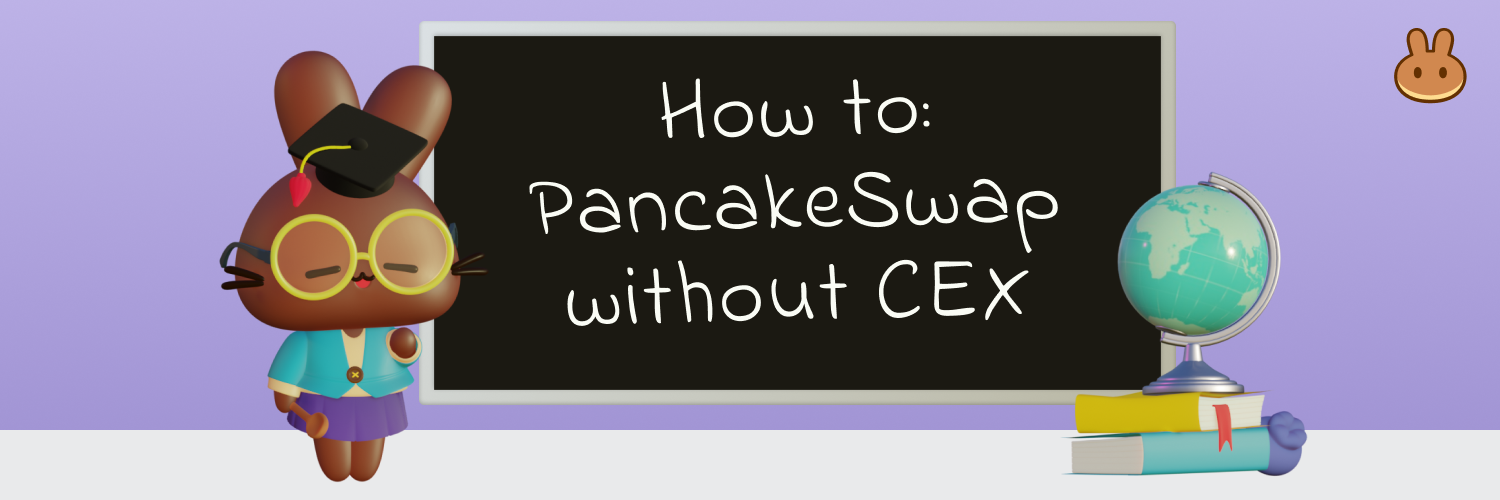
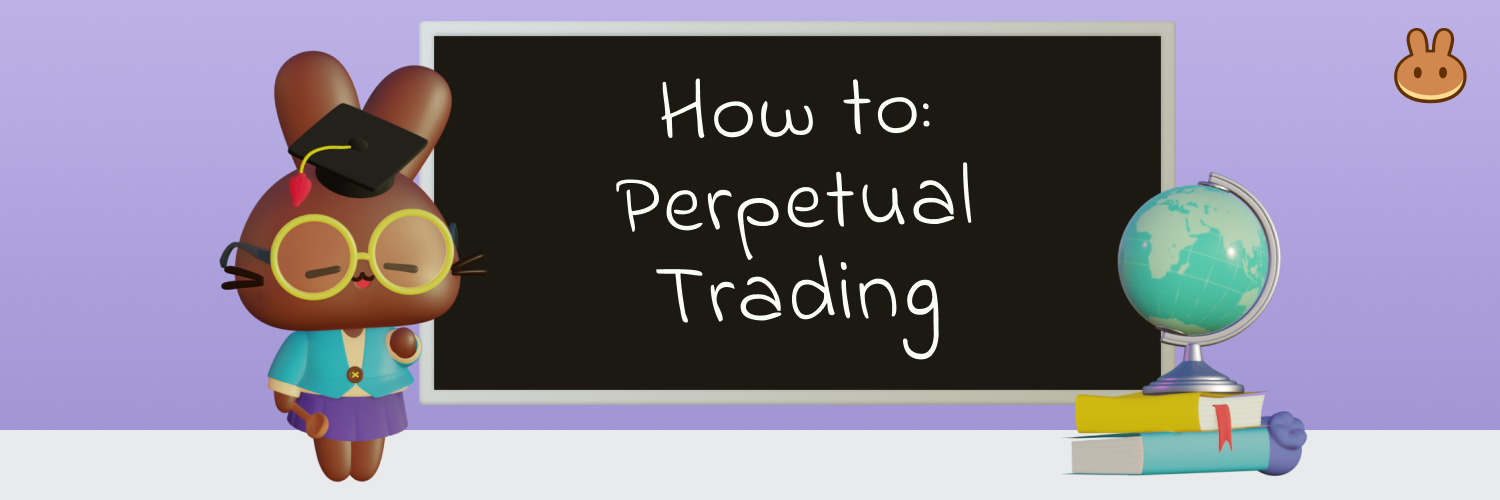
GitBook: [#570] No subject

Changed region(s): [[0.3373, 0.33, 0.7053, 0.51], [0.368, 0.51, 0.7053, 0.72]]

diff --git a/products/pancakeswap-exchange/perpetual-trading/glossary.md b/products/pancakeswap-exchange/perpetual-trading/glossary.md
@@ -1,0 +1,87 @@
+# Glossary
+
+**Here you will find defined all the terms inherent in futures trading**
+
+### **Perpetual Trading**
+
+&#x20;Perpetuals, perpetual swaps, or perps are a special type of futures contract without an expiration date.
+
+
+
+### **Leverage**
+
+Leverage is a trading mechanism. Traders can use it to increase their exposure to the market by allowing them to pay less than the full amount of the investment. In simple words, you borrow money to leverage your investment.
+
+![](https://lh5.googleusercontent.com/S4CpgIaapprJpet3GI9UvkGA2Vncl6ywSA8848SLOG5M73v2ILcSunlPMOxpWg9UJmKui4Vb6BDQcUugWP1aYMAVl9\_QPioIxT9sFRuY-EEtuSXgCn\_D8Muwqh60PFr3EcEu3kkH)
+
+### **Margin**
+
+is the guarantee you put for your leveraged positions. It has two Modes to use it:
+
+* Cross Margin Mode: All cross positions under the same margin asset share the same asset cross margin balance. In the event of liquidation, your assets full margin balance along with any remaining open positions under the asset may be forfeited.
+* Isolated Margin Mode: Manage your risk on individual positions by restricting the amount of margin allocated to each. If the margin ratio of a position reached 100%, the position will be liquidated. Margin can be added or removed to positions using this mode.
+
+![](https://lh3.googleusercontent.com/zVEa2C\_uhxdfB83PnT0jPQ3lbs5hJ8IY4cOe5KgxOiypTxV0CC1mXHouC9EhR2ukRmnMIXzk71JkEwPLmXAeK0RuP0xDsqX7c6P-X-7bPdqN3Xrfzxhub2wV55\_ZKRNTy8WoCpUs)
+
+**Margin Ratio**: Margin Ratio = Maintenance Margin / Margin Balance. Your positions will be liquidated once Margin Ratio reaches 100%.
+
+**Maintenance Ratio**: The minimum amount of margin balance required to keep your open positions.
+
+**Margin Balance** = Wallet Balance + Unrealized PNL. Your positions will be liquidated once Margin Balance <= Maintenance Margin.
+
+![](https://lh6.googleusercontent.com/BGaNOmsOkew\_Cf9f6zcP2bW4Die0-uZnoui7QVYY24oDFtQkgIB5Vq1dLo7XgkA3LKyisoK-5Cs0uSN7fl19aa9nvDDAzWCVdgnJ3xNGHkDchaJMQf1G0gvXmDDvR2DvAih1D7tS)
+
+### Assets:
+
+**Deposit**: Deposit your funds into your futures account
+
+**Withdraw**: Withdraw your funds from your futures account to your wallet
+
+**Balance**: Wallet Balance = Total Net Transfer + Total Realized Profit + Total Net Funding Fee - Total Commission.
+
+**Unrealized PNL**: Unrealized profit and loss on this position calculated based on Mark Price, and return on equity percentage.
+
+**Modes:**&#x20;
+
+* Single Asset Mode: Supports USDⓈ-M Futures trading by only using the single margin asset of the symbol. PNL of the same margin asset positions can be offset. Supports Cross Margin Mode and Isolated Margin Mode.
+* Multi-Assets Mode: USDⓈ-M Futures trading across multiple margin assets. PNL can be offset among the different margin asset positions. Only supports Cross Margin Mode.
+
+{% hint style="info" %}
+Note: If there are open positions or open orders in USDⓈ-M Futures, Multi-Assets Mode cannot be activated. Multi-Assets Mode only applies to USDⓈ-M Futures. Before activating Multi-Assets Mode, please read the guide in detail to better manage USDⓈ-M Futures account risk accordingly when using Multi-Assets Mode.\
+
+{% endhint %}
+
+![](https://lh3.googleusercontent.com/iupB9UR3QMDCEO5RwjfMpqKZaQtoT53G0Sa\_cYH9Neui8ttgqeFybtqOSIncZD74-4p3O-sQd6Lis2QKxGBsdgDmgutRaTUw1qKpjT-UXbpdKo-\_3KzjAl3f8VSGyoLrtudoUqBr)
+
+### Orders
+
+**Buy/Long:** Open a Long order. In this order you purchase an asset and wait to sell when the price goes up. "Buy" and "long" are used interchangeably.
+
+**Sell/Short:** Open a Short order. In this order, you borrow an asset, sell it, and hope to buy it back when the price goes down. "Sell" and "short" are used interchangeably.
+
+**Limit Order:** A limit order is an order to buy or sell at a specific price or better. Limit orders are not guaranteed to execute.
+
+**Market Order:** A market order is an order to buy or sell at the best available current price. It is executed against the limit orders that were previously placed on the order book. When placing a market order, you will pay fees as a market taker.
+
+**Stop Limit Order:** The easiest way to understand a stop-limit order is to break it down into stop price, and limit price. The stop price is simply the price that triggers the limit order, and the limit price is the price of the limit order that is triggered. This means that once your stop price has been reached, your limit order will be immediately placed on the order book.
+
+**Stop Market Order:** Similar to a stop-limit order, a stop market order uses a stop price as a trigger. However, when the stop price is reached, it triggers a market order instead.
+
+**Trailing Stop:** A trailing stop is an order type designed to lock in profits or limit losses as a trade moves favorably. Trailing stops only move if the price moves favorably. Once it moves to lock in a profit or reduce a loss, it does not move back in the other direction.
+
+**Post Only:** Post-only Mode means that Traders can only place an Order if it would be posted to the Order Book as a Maker Order. An Order which would be posted as a Taker Order will be rejected. No Market Orders may be placed and no Orders will be filled. Resting orders may be canceled in post-only mode.
+
+![](https://lh6.googleusercontent.com/uV8UuuqGxCwGmu9jxuL2Gf\_Nt8QwkYoYCfJinEfINffyr6QjV03tZVXA46GnIxY-XKSxcrAPtrtD8JZYBHSc4ILmLd8Rm6LqHmVdSAgMK8m-4WOdt3FsnPO2MD32EG9j3ym\_aSz\_)
+
+**Reduce Only:** Reduce-Only order will only reduce your position, not increase it.
+
+![](https://lh3.googleusercontent.com/HlbLU90VSn76W1xHVgSBoke83uQpAPFzl2JBME\_Dn2mElSDAYSbA51GRx2cOaAqxBe6wH02MbJxmwjrLuLoSx7Ei4AwzrnmqFjy4VEG5aUrYas7oFKVQ0CGNuiIAXjD1CdPaQurO)
+
+**TIF instructions** allow you to specify the amount of time that your orders will remain active before they are executed or expired. You can select one of these options for TIF instructions:
+
+![](https://lh6.googleusercontent.com/-QaqTJU0jCsjznhULix7i2ThVM7\_u7IP5a0i42TYhImt8xPLODjYCjLL5JNbRXrIDsgJRxIIGoYD8Tlq5gSdCjkAyMDat53r5WNTepB93\_7bq7gDmyg1-jyblSQ8eANv\_fH9bvJ-)
+
+* **GTC** (Good Till Cancel): The order will remain active until it is either filled or canceled.&#x20;
+* **IOC** (Immediate Or Cancel): The order will execute immediately (either fully or partially). If it is only partially executed, the unfilled portion of the order will be canceled.&#x20;
+* **FOK** (Fill Or Kill): The order must be fully filled immediately. If not, it won’t be executed at all.
+

diff --git a/products/pancakeswap-exchange/perpetual-trading/how-can-i-use-it.md b/products/pancakeswap-exchange/perpetual-trading/how-can-i-use-it.md
@@ -1,0 +1,114 @@
+# How can I use it?
+
+![](../../../.gitbook/assets/how-to-pancakeswap-without-cex-header.png)
+
+Using this functionality is really easy (the difficult thing is to trade well). We will only have to follow a series of steps so that our experience is complete
+
+### Go to Perpetual Trading page&#x20;
+
+You can enter from the [site](https://pancakeswap.finance), in the Trade → Perpetual section, or through this [link  ](https://perp.pancakeswap.finance/en/futures/BTCUSDT)
+
+### Deposit funds&#x20;
+
+You need to deposit funds into the Futures account first, in the box on the bottom right of the screen
+
+![](https://lh6.googleusercontent.com/cz-OoCaRg3AfqTcETGTQVvsX\_gfbm28fNJrUAxcljM823Bw1etFN3gArU5v8HljjzJU-lE3aV\_5ENUySwioNYo\_cQp\_\_KwzEwo60ABmuWsqAzT5nM-nUse3ROcMdj2FhUChgsdGo)
+
+USDT, BUSD, APX or CAKE (with bonus!) can be used as collateral to pay for the trade.
+
+![](https://lh6.googleusercontent.com/3tFEo\_gYD7r41o7RCFnd61NiEzJkqGc5uiZP3tRzEomAI805HPikW6tEDBzbyxK-kL5hptEqCIXax2wgASbbHcuN8FpKT4-hK6bFmkNyxmXJ2QIQxZRr38VTA\_qg9HKmEbN2kNev)
+
+As mentioned, using CAKE for fees gives you a 5% discount! So, why not?
+
+![](https://lh3.googleusercontent.com/UiwXc1dgPqm07Ai0XKGuYAHLDbENm51\_v93vMwHkUdb2HI-Hm5qEI2gbEVtzboatzv0-E9iesik8NF3ON74QXaXaW5jLcOJ5JjegI-8oMiidUf-MiZHjvvxnmd1HTfdnFrNgF8cG)
+
+> Note: The trading fees are 0.02% of the notional value for makers and 0.07% for the taker. CAKE will be the default payment option for trading fees, followed by APX (ApolloX’s token) and USDT. Any users who are paying the trading fees in CAKE will enjoy a 5% discount on trading fees.
+
+### Choose the pair to trade&#x20;
+
+You can select a tradable pair by clicking on the arrow next to the pair, at the top of the page.
+
+![](https://lh4.googleusercontent.com/OtHWwOgKp13zb-f-lVkgYShNPYD05B5hYrZIKasq2H-ev-05P1s4cYedXIwt4xsuGU2\_\_7O7JwLwy66ERraUl2edkSmQSiaXcU5ilVXpTs39D-xiHB7q4p1q8NA7lpjCWuVe3E2z)
+
+More tradable pairs will come soon!
+
+![](https://lh5.googleusercontent.com/yqnCEMigm39LpeG2tPHzXjgZOH08Je3Hhyj0tUxnqjFD2xBqwImoo4xMwjabnNWd0rXtyVcgBj5y4QuNod4QD0js4x-75S9VjsaF1LaLPbiL5G4c2KZUN9Aclqj3cf4EdUGg08Ia)
+
+### Analyze the chart and decide your trading strategy
+
+&#x20;It’s trading time!! Let’s get serious. You can analyze the chart your way, with all the tools available
+
+![](https://lh4.googleusercontent.com/\_xJvQoCSOdq6AqB-KEMiAYtXwUp\_ZS3DwNcC-x0jzNnBWTDLdKhRXwREPGwhC7fyirLJ10iKnhUPey-v1EkFDynQmqgNGuySYTpPmDx0A2bl7Pk0uZ8fBEGFPfBuwXBcWcIG2JFO)
+
+**Do you know how to do it or do you want to improve in your analysis?**
+
+Here is a guide to get started in the world of chart analysis:
+
+* [How to Use TradingView on Binance Website](https://www.binance.com/en/support/faq/8419126024404348a1c6e4039fbed3fe)
+* [Candlestick charts](https://academy.binance.com/en/articles/a-beginners-guide-to-candlestick-charts)
+* [Trend Lines Explained](https://academy.binance.com/en/articles/trend-lines-explained)
+
+
+
+### Make your position&#x20;
+
+Then, in the upper right part you have the board to position your order.
+
+![](https://lh3.googleusercontent.com/rQXCNgMoR4OzR\_wXu92Mtgb22O7rAnOlrP0pL0VpXnurfrekOG0HwzUOBWQV-PtMinA1s8lo6KmtT78h3pGmTOF-ajO-G3EDg9CK56q-cPZNLUWJanE9-mEjOhJ4rWncb35PZEfq)
+
+Here you must set several parameters, like:
+
+_Not in an specific order_
+
+1. The Margin Mode: Cross or Isolated
+
+![](https://lh4.googleusercontent.com/tplKHXPvrTQXPkNL9BSjVsIBAqfVDWyfh0mU0HDYDRXf4KRUEyu5xzDivGkzfw7JNsEUpQWXvPt8q1Wn26yeX21-DrhhwMTtMpFvFLyTKUxSOteAugTrlTgwvKro0zOluqFmELJQ)
+
+&#x20; 2\. The x of the leverage
+
+![](https://lh5.googleusercontent.com/ikaG0tpWYcynBZbEOmoR1XLYZzaFXwHwD6MCrlqDCLGDOa3LA1KQh4Gp8uv\_BAPNo8z3r1bLe\_DzEGjNyI22ja\_oIOF9A4vfdLEpsoAxcKj5rboH9Ip2eLkBZUfBPZJpXwL\_KJ0s)
+
+Disclaimer: Remember that a high level of leverage carries a very high risk, use it wisely.
+
+&#x20;   __    3. Type or Order
+
+![](https://lh3.googleusercontent.com/If2SXl-FUCTuy0eNJkmF0ONspdYPeIWFBXvyLkH6Hc0B1CwAzd9EP5rMQGSjr23hK9sDDUmL0rSN9R28AL9\_-x\_f0jsFdfrn7WFOjEcqfPaxerPjGSq1iIpxz6tcN\_A839ASRF3B)
+
+&#x20;  4\. Place a price for your order.
+
+![](https://lh4.googleusercontent.com/J8rbXc\_DhROHaZRoVCBELwIIraVg\_uL2V-8bn2Ci2sm80jEmbS6q4CMuJ-Njv3Dx2L\_OeoS-PTh-haPuW4uYsKIxQdWQdFttyFrTPFHp19u1nVz\_V0MM6QsQdmKiyUD-imRSryU1)
+
+Note: You can use “Last” to fill in with the current last price.
+
+&#x20;  5\. Set the order’s size
+
+![](https://lh5.googleusercontent.com/OBtTNov5\_h4-yWaOl17W8yZt2hnThsSiTF\_ydyJdlrDEOi2mZAHRoIik0-9-bzGRFfbBAJ3QvzC7x4G65fHjrKeLAYNMsvTszr\_7N8GIRdBV8P23FtD3eteEt-u3HPWutUWpFwu0)
+
+You can also choose the reference currency to see your position
+
+
+
+> Note: there are a few more options to consider, but you can see that within the [trading glossary](https://app.gitbook.com/o/-MHRKTpKSfYQBsO7YgOo/s/-MHREX7DHcljbY5IkjgJ-1972196547/\~/changes/kV67VeywrXQ7vYfX5se0/products/pancakeswap-exchange/perpetual-trading/glossary) \
+>
+
+
+
+### Send your order
+
+When all the parameters have been set, you can send the order by clicking on long, if it is a long order, or short, if it is a short order.
+
+![](<../../../.gitbook/assets/image (59).png>)
+
+### Checking your position
+
+Once the order has been sent, it will appear in "Open Orders" until it is filled out.
+
+![](https://lh6.googleusercontent.com/dIGg0mdxTNk7N3v3RI2eQ\_CUmktxBiOQ-mDVQb\_aBKPQuFYNIuOdTL55KLSjFPfxZp4DwrbfImykOPaWJl35iljOA8gv7nqgXYWGtgpFdLzxSebqjOy2KzIS7oqFAhwNd3cz2wRK)
+
+### Live!
+
+When it is filled, your position will be live. You can see it in the positions panel. Also you can view, edit, or close it.
+
+![](https://lh4.googleusercontent.com/Bx9Ri4\_\_6BG1Z1mVcIJh42xpyP-H6ijFv7iI9JxAlHvZkYs2lxnSQm8fQjXZ7TGjCHwf7DmNuSFdb0dtw60R5Duy0VO\_\_GvSaKwFzzgt9ovbfm9j-U93r5mLlxKZzF6r4VfZQHjz)
+
+Good luck with your trades!

diff --git a/products/pancakeswap-exchange/perpetual-trading/what-is-perpetual-trading.md b/products/pancakeswap-exchange/perpetual-trading/what-is-perpetual-trading.md
@@ -1,0 +1,17 @@
+# What is Perpetual Trading?
+
+Perpetuals, perpetual swaps, or perps are a special type of futures contract without an expiration date.
+
+Futures trading allows users to enter positions on margin (leverage) using borrowed funds to optimize capital. Using leverage allows for a user to enter a position with a larger size than their account balance. For example, a user could take 10x leverage and trade 100 CAKE for the price of 10 CAKE. In this example, the initial margin would be 10 CAKE which is used to collateralize the leveraged position. .
+
+In addition to leverage, futures open the possibility of trading in both directions, buying (long) and selling (short) perpetuals.. Additionally, itallows PancakeSwap to offer more assets to trade even assets not currently on BNB Smart Chain (BSC). Perpetual contracts don’t expire and allow the holder to enjoy trading price action of the underlying asset without owning it.\
+
+
+For more general information on Perpetual Futures Contracts, please see [our Medium Article](https://medium.com/pancakeswap/launching-perpetual-trading-on-pancakeswap-a-partnership-with-apollox-b3670d4e19d4)&#x20;
+
+
+
+{% hint style="info" %}
+Note: In this tutorial we will explain how to use the Perpetual Trading interface in PancakeSwap. We assume that you understand what futures trading is about and know the associated risk. We recommend studying and understanding well about futures before making any trade.
+{% endhint %}
+

diff --git a/products/pancakeswap-exchange/perpetual-trading/perpetual-trading-faq.md b/products/pancakeswap-exchange/perpetual-trading/perpetual-trading-faq.md
@@ -1,0 +1,23 @@
+# Perpetual Trading FAQ
+
+![](../../../.gitbook/assets/general-faq-header.png)
+
+### What is the value contribution of this new feature to the cake holders?&#x20;
+
+We expect this new feature to bring in a lot of new users, traders and volume. We want to ensure the value goes back to our CAKE token on top of offering the trading fee discount. 20% of all trading fees from users who sign up on PancakeSwap will be converted to CAKE and burnt.
+
+&#x20;**And the rest of it?**&#x20;
+
+The rest are currently reserved for the treasury for ongoing expansion and development of this feature, as well as for an insurance fund for unexpected market events. As the feature matures, we expect to increase the burn portion gradually based on community feedback and governance.
+
+### I can’t see my funds! What happened?
+
+&#x20;Remember that you must first deposit your funds into the Futures account!
+
+### How does ApolloX determine which user is from PCS and which user is from their own website?&#x20;
+
+Based on first time if the address was signed up at PCS' domain or APX's domain, if the wallet address has already signed up with ApolloX, it's treated as APX's users for revenue sharing calc purposes
+
+### Are we gonna switch to showing only PCS’s volume on the frontend on the PCS’s version?
+
+&#x20;The frontend is the combined volume since the liquidity is combined and it shows the deep liquidity which also brings the tight spread

diff --git a/SUMMARY.md b/SUMMARY.md
@@ -29,6 +29,11 @@
   * [How to Add/Remove Liquidity](products/pancakeswap-exchange/liquidity-guide.md)
   * [📝Limit Orders](products/pancakeswap-exchange/limit-orders/README.md)
     * [Limit Orders FAQ](products/pancakeswap-exchange/limit-orders/limit-orders-faq.md)
+  * [Perpetual Trading](products/pancakeswap-exchange/perpetual-trading/README.md)
+    * [What is Perpetual Trading?](products/pancakeswap-exchange/perpetual-trading/what-is-perpetual-trading.md)
+    * [How can I use it?](products/pancakeswap-exchange/perpetual-trading/how-can-i-use-it.md)
+    * [Perpetual Trading FAQ](products/pancakeswap-exchange/perpetual-trading/perpetual-trading-faq.md)
+    * [Glossary](products/pancakeswap-exchange/perpetual-trading/glossary.md)
 * [🚜 Yield Farming](products/yield-farming/README.md)
   * [How to Use Farms](products/yield-farming/how-to-use-farms.md)
   * [How to Use Farms with BscScan](products/yield-farming/how-to-use-farms-with-bscscan.md)

diff --git a/get-started/using-pancakeswap-without-centralized-exchanges.md b/get-started/using-pancakeswap-without-centralized-exchanges.md
@@ -6,7 +6,7 @@ description: >-
 
 # Using PancakeSwap without Centralized Exchanges
 
-![](../.gitbook/assets/how-to-pancakeswap-without-cex-header.png)
+![](<../.gitbook/assets/how-to-pancakeswap-without-cex-header (1).png>)
 
 PancakeSwap is a decentralized application. That means, unlike Binance or other centralized platforms, you don't need to register account to use it... you just need a crypto wallet. So how can you get crypto onto PancakeSwap without using a centralized exchange?
 

diff --git a/products/pancakeswap-exchange/perpetual-trading/README.md b/products/pancakeswap-exchange/perpetual-trading/README.md
@@ -1,0 +1,7 @@
+# Perpetual Trading
+
+![](../../../.gitbook/assets/1\_c\_lNyENIc\_iE3Z1Hrr8Hag.png)
+
+The bunnies have rubbed their paws and worked very hard in conjunction with ApolloX to bring this new feature to PancakeSwap. Trade your favorite pairs in a decentralized way on the site! Without intermediaries, easy, fast, safe and within reach of your legs, well, hands.
+
+Oh, and before we forget, this new feature helps the weekly burning of CAKE 🔥

diff --git a/help/faq.md b/help/faq.md
@@ -1,6 +1,6 @@
 # General FAQ
 
-![](../.gitbook/assets/general-faq-header.png)
+![](<../.gitbook/assets/general-faq-header (1).png>)
 
 This FAQ page answers some of the more commonly asked questions from the PancakeSwap community.
 
